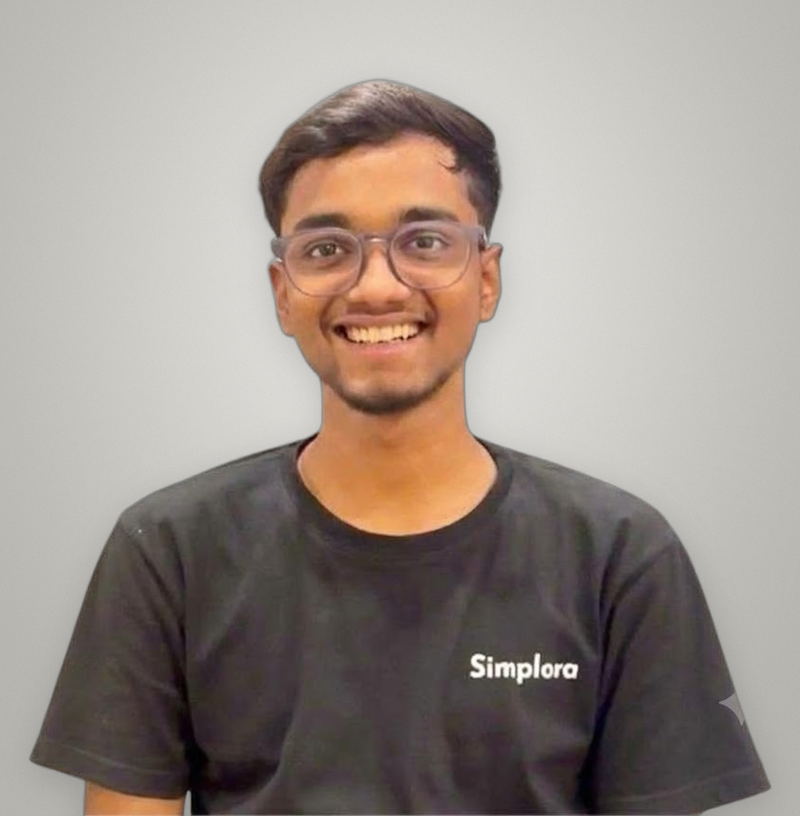
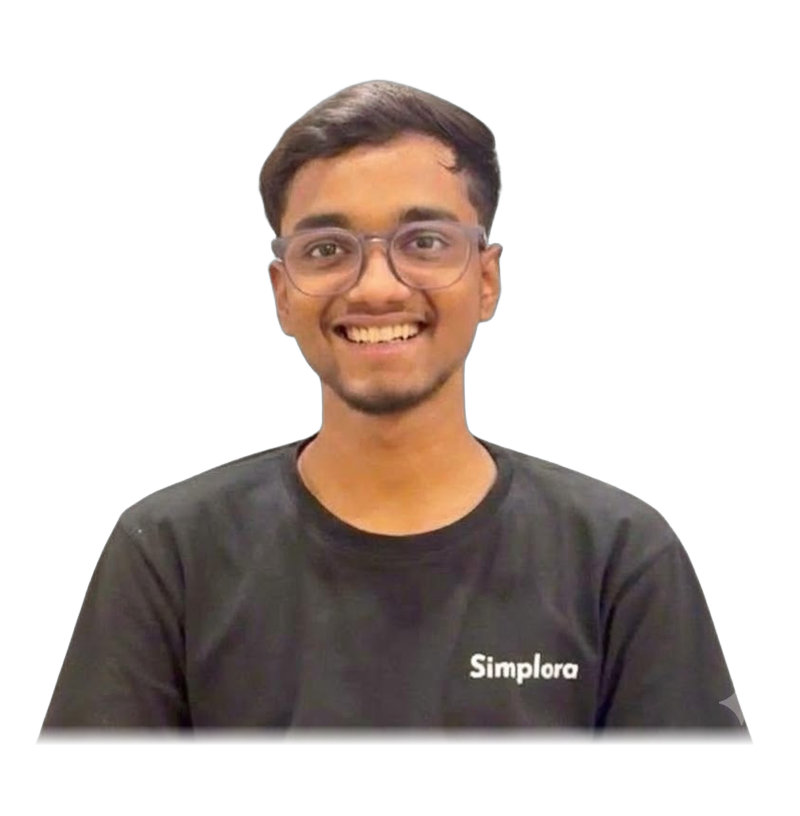
fix(team): remove black shelf, use seamless studio card backdrops with clothing tucked behind pill, and move hover blue glow strictly to background behind portrait

diff --git a/src/components/TeamSection.css b/src/components/TeamSection.css
@@ -141,53 +141,62 @@
               0 0 28px rgba(56, 189, 248, 0.16);
 }
 
-/* Photo Wrapper */
+/* Photo Wrapper - Studio backdrop base */
 .team-photo-wrap {
   position: relative;
   width: 100%;
   aspect-ratio: 1 / 1.02;
   overflow: hidden;
-  background: #0d0f17;
+  background: radial-gradient(circle at 50% 35%, #e2e0da 0%, #b8b5ac 75%);
 }
 
-/* Bottom shelf guard: covers bottom 24px of photo with solid card background.
-   Guarantees that in the 8px space below the floating pill, NO person photo or clothing
-   is ever shown—only the pure, dark background of the card.
-   The shelf sits behind the solid white pill (z-index: 3), hiding the boundary completely. */
-.team-photo-wrap::before {
-  content: '';
-  position: absolute;
-  bottom: 0;
-  left: 0;
-  right: 0;
-  height: 24px;
-  background: #0d0f17;
-  z-index: 2;
-  pointer-events: none;
+/* Member-specific studio backdrops matching individual portrait aesthetics */
+.team-card-member-1 .team-photo-wrap {
+  background: radial-gradient(circle at 50% 35%, #e4e2dc 0%, #b9b7af 75%);
+}
+.team-card-member-2 .team-photo-wrap {
+  background: radial-gradient(circle at 50% 35%, #ece9e4 0%, #c8c5c0 75%);
+}
+.team-card-member-3 .team-photo-wrap {
+  background: radial-gradient(circle at 50% 35%, #dee1e4 0%, #b6bcc2 75%);
+}
+.team-card-member-4 .team-photo-wrap {
+  background: radial-gradient(circle at 50% 35%, #c6c5c1 0%, #a2a09c 75%);
+}
+.team-card-member-5 .team-photo-wrap {
+  background: radial-gradient(circle at 50% 35%, #98a0a4 0%, #70787c 75%);
+}
+.team-card-member-6 .team-photo-wrap {
+  background: radial-gradient(circle at 50% 35%, #e6e4e0 0%, #bcbaaf 75%);
+}
+.team-card-member-7 .team-photo-wrap {
+  background: radial-gradient(circle at 50% 35%, #e1e0dc 0%, #b6b4af 75%);
 }
 
-/* Ambient background glow inside card that activates on hover */
-.team-photo-wrap::after {
-  content: '';
+/* Blue Ambient Glow strictly IN THE BACKGROUND (z-index: 1, behind the person) */
+.team-photo-bg-glow {
   position: absolute;
   inset: 0;
-  background: radial-gradient(circle at 50% 35%, rgba(56, 189, 248, 0.18) 0%, transparent 68%);
+  background: radial-gradient(circle at 50% 35%, rgba(56, 189, 248, 0.45) 0%, rgba(56, 189, 248, 0) 70%);
   opacity: 0;
   transition: opacity 0.4s ease;
   pointer-events: none;
   z-index: 1;
 }
 
-.team-member-card:hover .team-photo-wrap::after {
+.team-member-card:hover .team-photo-bg-glow {
   opacity: 1;
 }
 
-/* Photo Image - Jumps up on hover with subtle depth shadow */
+/* Photo Image (Person Cutout) - sits ON TOP of the background glow (z-index: 2).
+   Zero blue effect on the person's face or clothing! */
 .team-photo-img {
   width: 100%;
   height: 100%;
   object-fit: cover;
   display: block;
+  position: relative;
+  z-index: 2;
   transform: translateY(0) scale(1);
   transition: transform 0.4s cubic-bezier(0.16, 1, 0.3, 1), 
               filter 0.4s ease;
@@ -196,7 +205,7 @@
 /* Only the person inside jumps! */
 .team-member-card:hover .team-photo-img {
   transform: translateY(-9px) scale(1.03);
-  filter: drop-shadow(0 12px 20px rgba(0, 0, 0, 0.5));
+  filter: drop-shadow(0 14px 22px rgba(0, 0, 0, 0.35));
 }
 
 .team-photo-vignette {
@@ -206,7 +215,7 @@
   background: linear-gradient(
     to bottom,
     rgba(0, 0, 0, 0) 65%,
-    rgba(0, 0, 0, 0.3) 100%
+    rgba(0, 0, 0, 0.22) 100%
   );
   z-index: 2;
 }

diff --git a/src/components/TeamSection.jsx b/src/components/TeamSection.jsx
@@ -55,8 +55,12 @@ const teamMembers = [
 
 // Helper to render an individual team member card
 const renderMemberCard = (member, keyPrefix) => (
-  <div key={`${keyPrefix}-${member.id}`} className="team-member-card">
+  <div key={`${keyPrefix}-${member.id}`} className={`team-member-card team-card-${member.id}`}>
     <div className="team-photo-wrap">
+      {/* Blue Ambient Glow strictly in background behind subject */}
+      <div className="team-photo-bg-glow" />
+
+      {/* Person Portrait Cutout on top of background glow */}
       <img
         src={member.image}
         alt={member.name}
